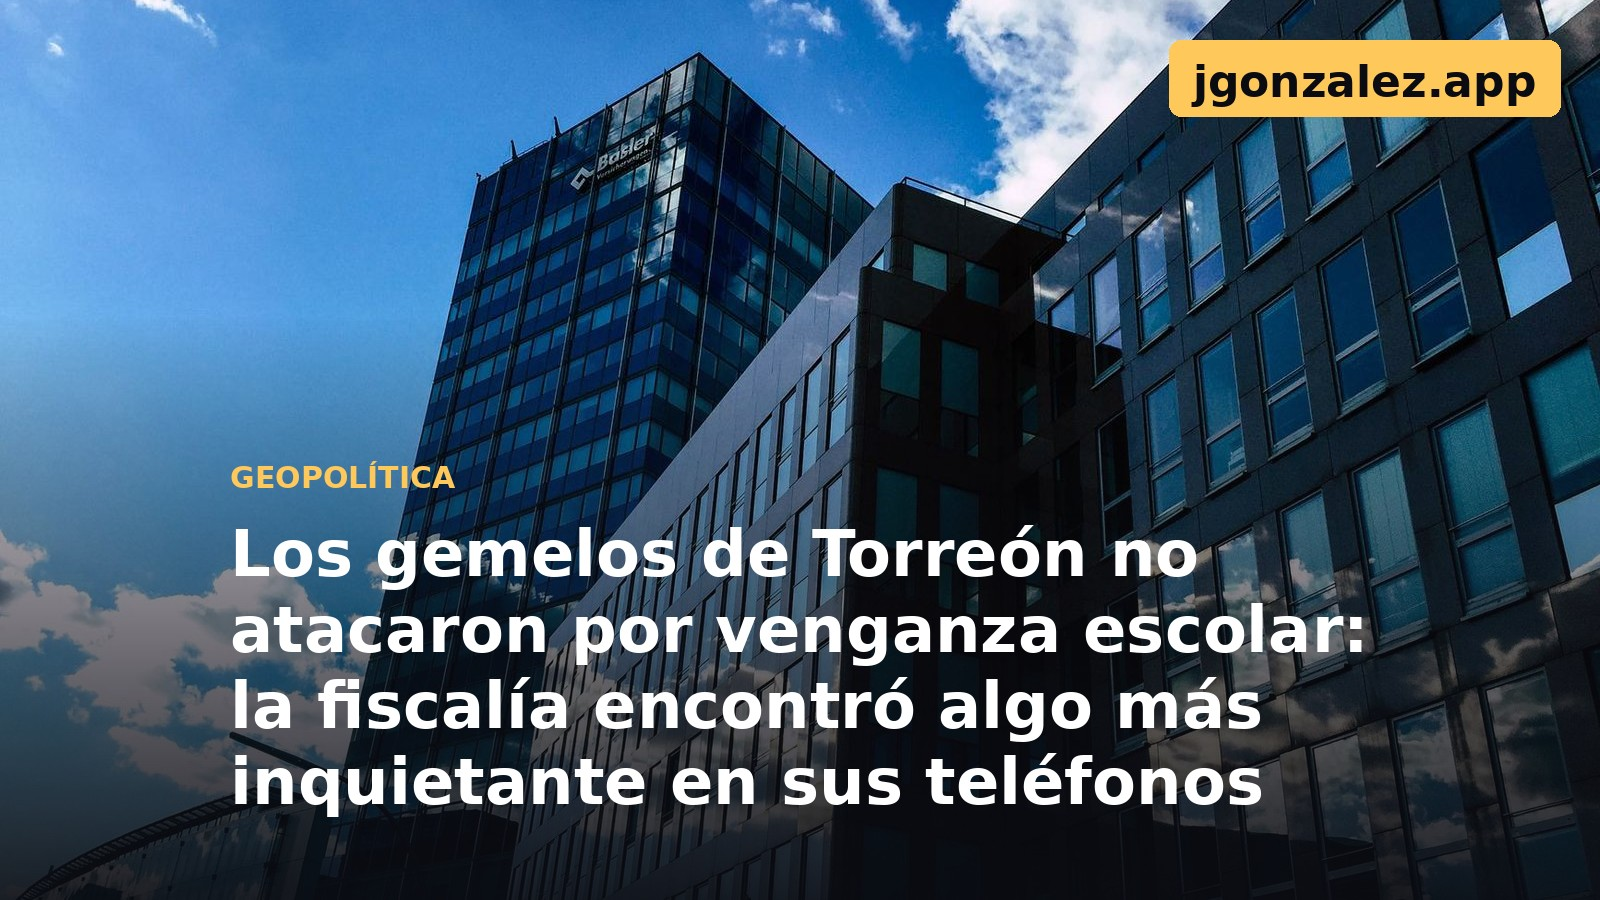
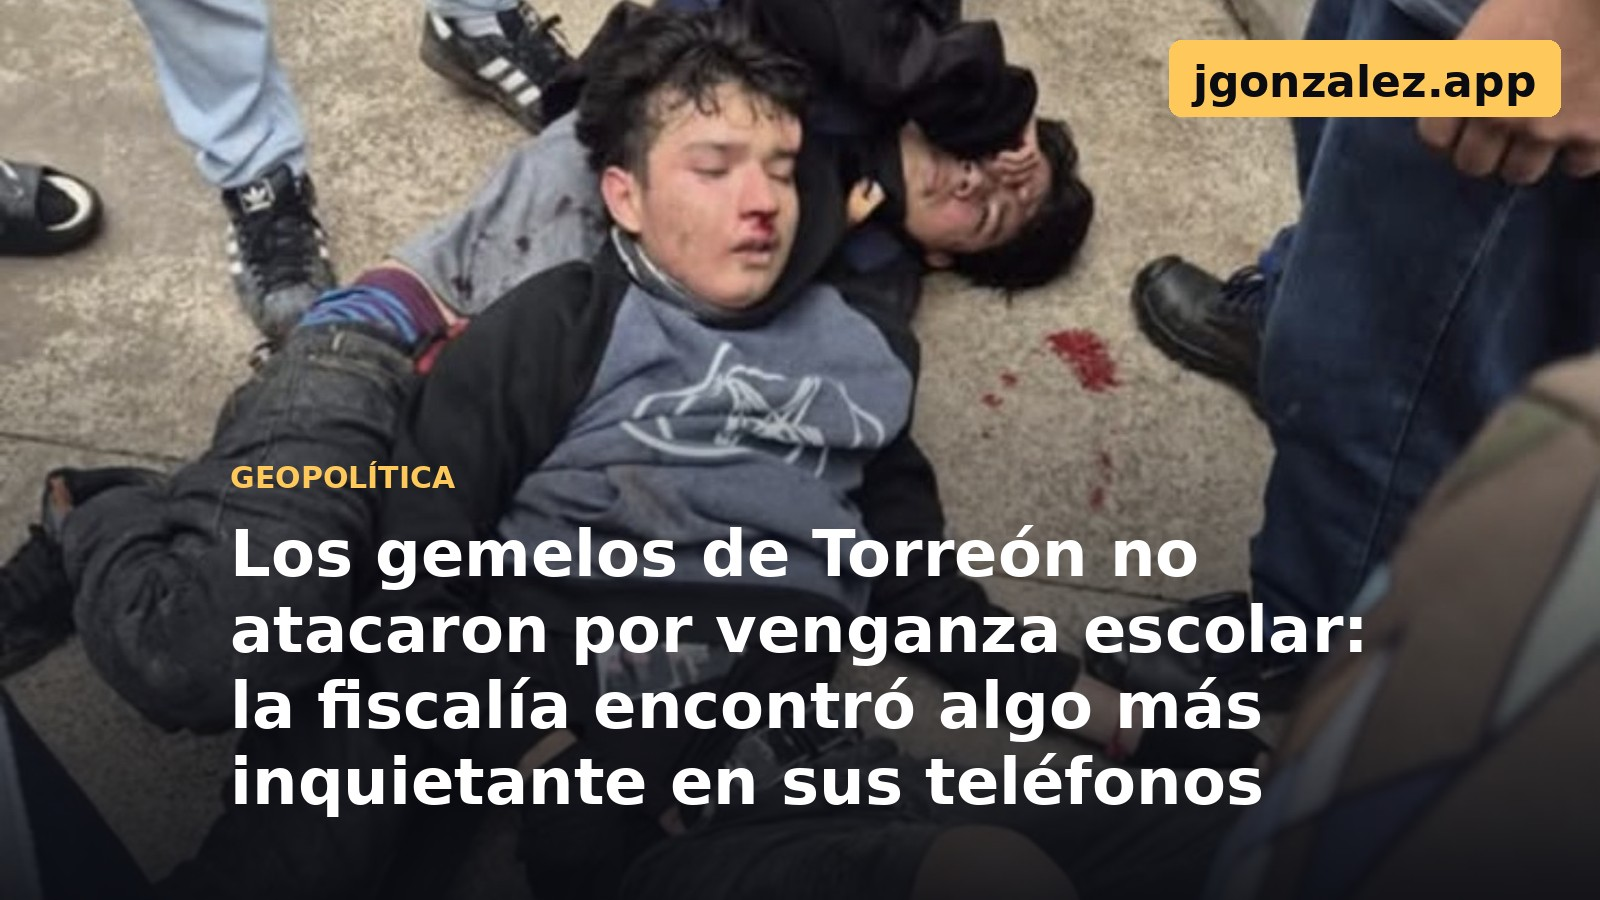
Regresa el Editor's Pick a su lugar y actualiza la portada de la nota de Torreón
El Pick vuelve a aparecer entre el buscador y el newsletter (ya sin la
cuadrícula duplicada de antes). La nota de los gemelos de Torreón usa
ahora la foto real del momento de la detención como portada.

Claude-Session: https://claude.ai/code/session_01Hy1irsgxb8SxM6AaqhiYV5

diff --git a/components/BlogExplorer.js b/components/BlogExplorer.js
@@ -223,8 +223,6 @@ export default function BlogExplorer({ notas: notasProp = [], pickSlug, mundos =
         ))}
       </div>
 
-      {children}
-
       {buscando ? (
         <>
           <p className="buscador-conteo" aria-live="polite">
@@ -287,6 +285,8 @@ export default function BlogExplorer({ notas: notasProp = [], pickSlug, mundos =
           </Link>
         )
       )}
+
+      {children}
     </>
   );
 }

diff --git a/content/blog/ataque-secundaria-torreon-coahuila-radicalizacion-online.md b/content/blog/ataque-secundaria-torreon-coahuila-radicalizacion-online.md
@@ -23,7 +23,7 @@ datosClave:
     etiqueta: 'Incidentes armados en escuelas mexicanas registrados en los primeros tres meses de 2026, cerca ya del récord anual de 30 en 2025'
   - valor: '143 incidentes'
     etiqueta: 'Total de incidentes con armas en escuelas de México documentados entre 2000 y marzo de 2026'
-imagen: /blog/portadas/oficina-corporativa-17.jpg
+imagen: /blog/portadas/ataque-secundaria-torreon-coahuila-radicalizacion-online.jpg
 gancho: 'Dos gemelos de 18 años atacaron su antigua secundaria en Torreón con machetes y bombas molotov. La fiscalía primero habló de venganza escolar. Luego encontró, en sus teléfonos, fotografías de atacantes extranjeros que idolatraban. ¿Cuántos casos más de radicalización silenciosa existen ahora mismo en algún chat de WhatsApp en México?'
 socialImagen: /blog/social/ataque-secundaria-torreon-coahuila-radicalizacion-online.jpg
 ---
